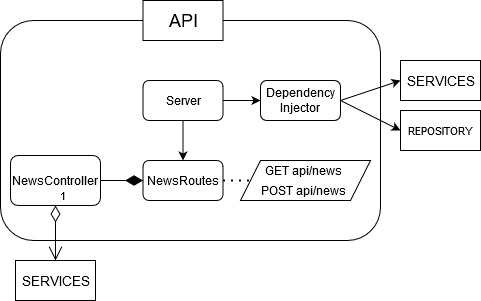
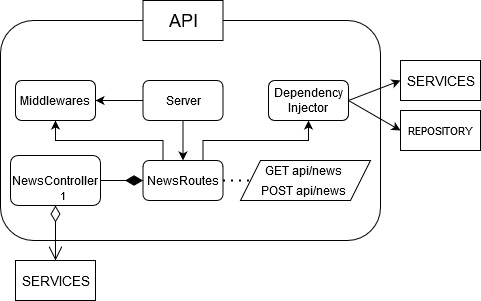
documente api

diff --git a/README.md b/README.md
@@ -43,7 +43,7 @@ The versions of the libraries used below can be found on the *package.json* file
 
 The news API exposes the endpoint */api/news* and allows the http methods *GET* and *POST* to respectively retrieve all the news and add a new one news.
 
-For the POST method is needed to send the data on the body implementing the following interface:
+For the POST method is needed to send the data as JSON on the body implementing the following interface:
 
     {
         "title":  string,
@@ -77,21 +77,28 @@ The objective of this module is to act as some kind of domain layer and to achiv
 
 ### API
 
+The API module defines an [express](https://expressjs.com/es/) app that acts as a presentation layer that will receive and return information to the client. This module is composed of four submodules, which I will describe next, plus the dependecy injector.
+
 ![API_diagram](img/API_diagram.jpg)
+
+- Server: Its mission is to initialize, configure (adding the routes, middlewares and set the port where the app will run) and initialize the API.
+- NewsRoutes: Defines the route */api/news* and the HTTP methods (GET and POST) allowed, also maps the HTTP methods to the NewsController methods that will be executed.
+- NewsController: Here lays the methods that will be executed when the HTTP methods are called and executing the services to complete the use case. The class AddNewsRequest, from the messages folder, is used here as a request parser to ensure that all the fields are on the request.
+- Middlewares: The functions that are executed before the HTTP methods. These are two, isAuthenticated and isAuthorized, the first one is applaid on both methods and the second only at the post method. Here will be the authentication and authorization logic, since no real authentication process is needed both functions just execute a console log. For simplicity both middlewares are functions but if for example the execution of service is needed we will have to extend the function to a class with a method like ExecuteMiddleware and inject the services through the constructor following the inversion of dependecy principle.
 
 #### Dependency Injection
 
-Here, the *DependyIntjection.ts* file, the interfaces are binded to its implementations and registered in the inversion of control container.
+Here, at the *DependyIntjection.ts* file, the interfaces are binded to its implementations and registered in the inversion of control container.
 
-The PostgreNewsRepository is injected into the AddNewsServices and GetAllNewsServices, then both of them are injected into the NewsController which will be initialized an resolved its dependencies. With the *injectable* on the top of the class and *inject* on the constructor parameters decorators the library knows how to resolve and where to inject the dependencies.
+The PostgreNewsRepository is injected into the AddNewsServices and GetAllNewsServices, then both of them are injected into the NewsController which will be initialized at the NewsRoutes class. With the decorators *injectable* on the top of the class and *inject* on the constructor parameters the library knows how to resolve and where to inject the dependencies.
 
-For this task I have used the [inversifyJS](http://inversify.io/) library. This submodule could have been located outside the API but to have some resemblance with [APS.NET Core](https://dotnet.microsoft.com/learn/aspnet/what-is-aspnet-core) I wanted to keep it on the API.
+For this task I have used the [inversifyJS](http://inversify.io/) library. This submodule could have been located outside the API but to have some resemblance with [APS.NET Core](https://dotnet.microsoft.com/learn/aspnet/what-is-aspnet-core) I wanted to keep it on here.
 
 ### SERVICES
 
 On these module we find the implementations of the service interfaces, their mission is to execute the logic or use cases of the application.
 
-- AddNewsService: completes and formats the data sended from the controller to be stored on the database by the repository.
+- AddNewsService: completes and formats the data, to follow the INewsEntity interface, sended from the controller to be stored on the database by the repository.
 - GetAllNewsService: uses the repository to retrieve all the news from the database.
 
 ![SERVICES_diagram](img/SERVICES_driagram.jpg)
